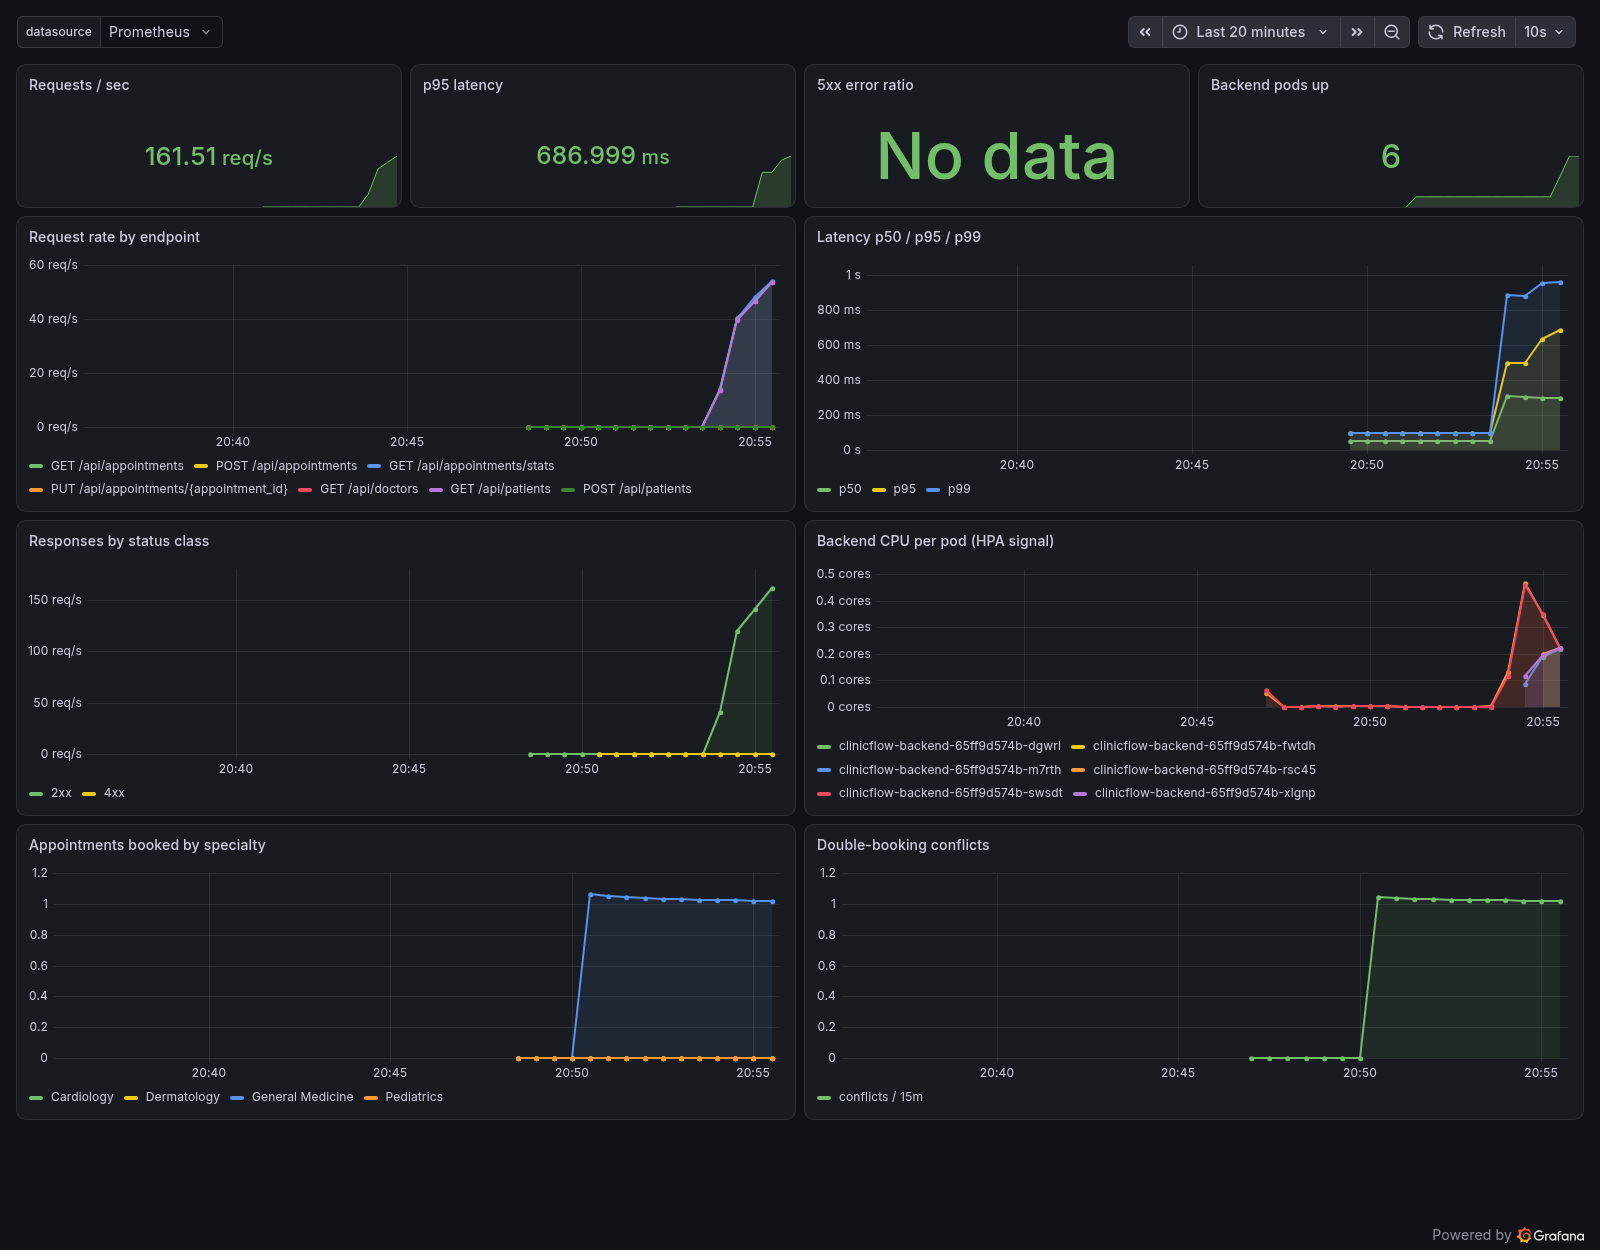
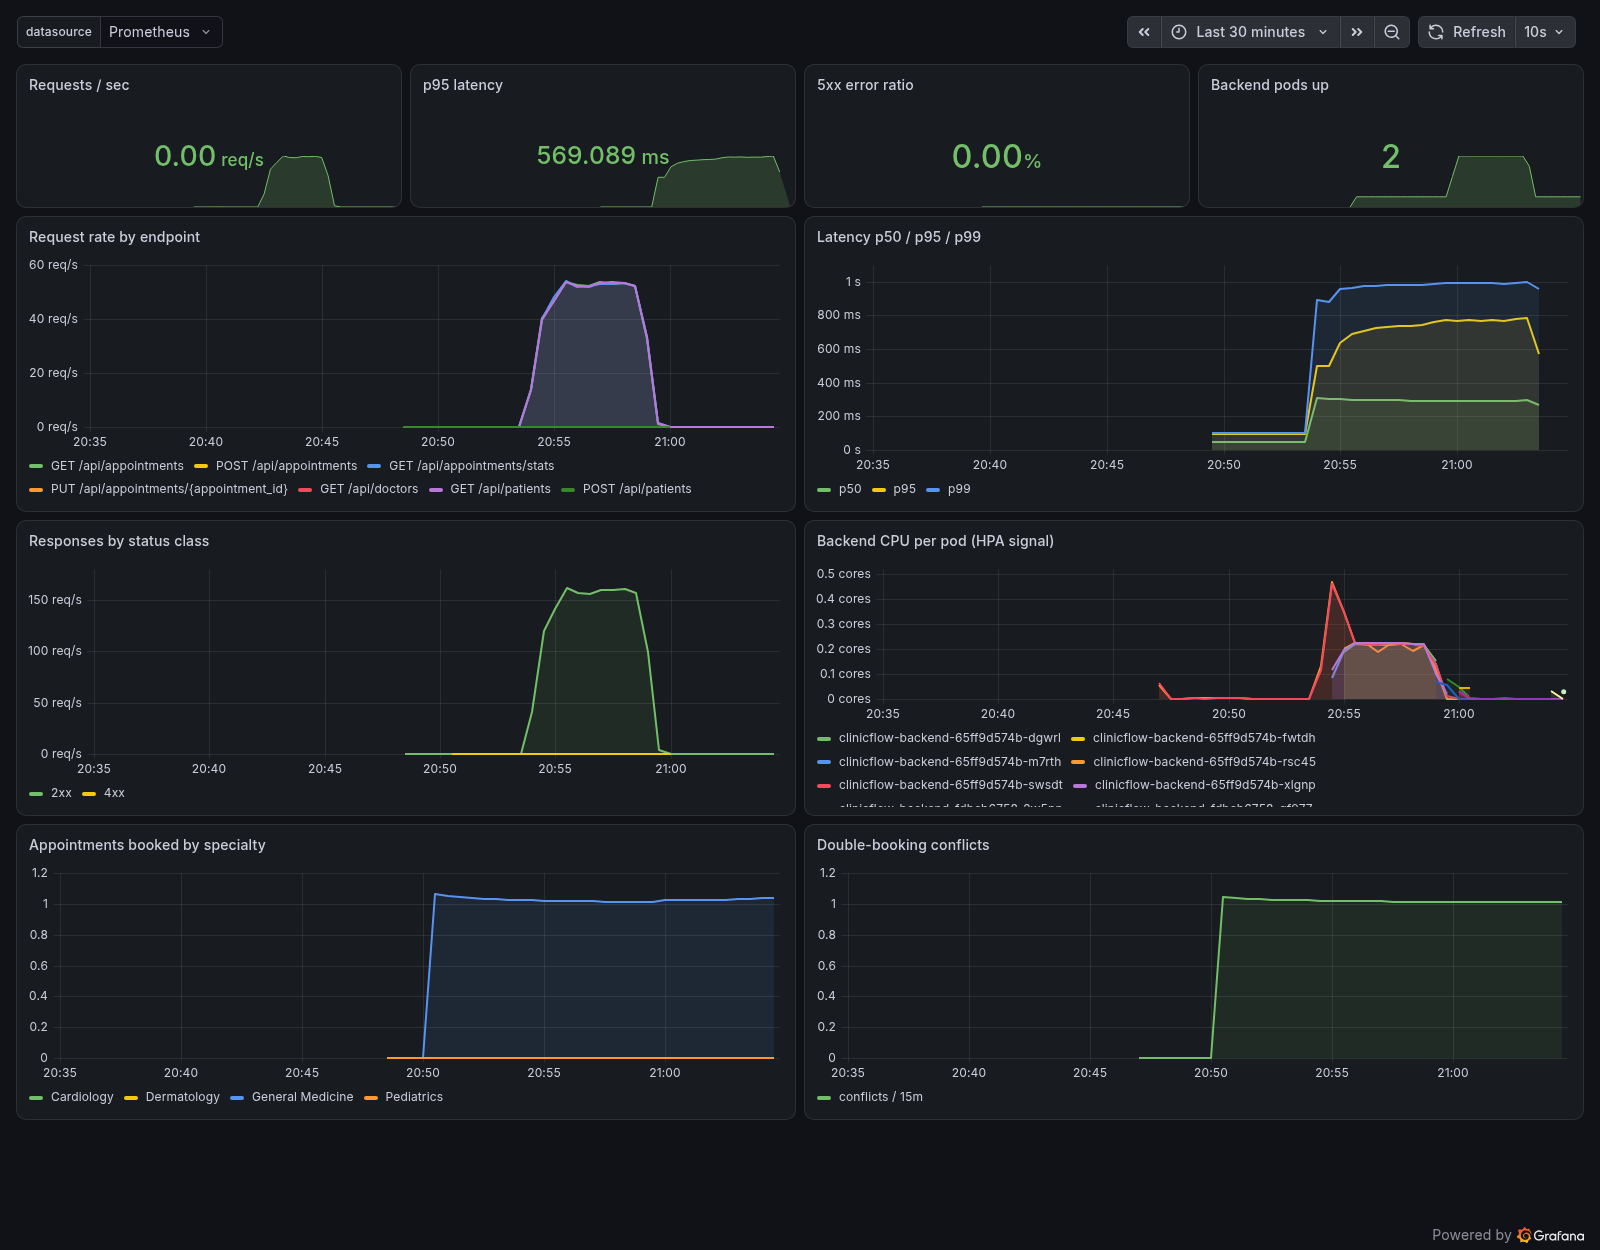
submission notes, screenshots, fix readiness lab image tag

diff --git a/docs/SUBMISSION.md b/docs/SUBMISSION.md
@@ -1,0 +1,106 @@
+# Capstone submission – ClinicFlow
+
+- **Repository:** https://github.com/SamarthPD-21/clinicflow
+- **Pipeline runs:** https://github.com/SamarthPD-21/clinicflow/actions
+- **Images:** `ghcr.io/samarthpd-21/clinicflow-backend`, `ghcr.io/samarthpd-21/clinicflow-frontend` (public, tagged with commit SHA)
+
+All screenshots are in [`docs/screenshots/`](screenshots/). File names start with the rubric module.
+
+## M1 – Application
+
+| Requirement | Evidence |
+|---|---|
+| FastAPI `/health` | `backend/app/main.py`, [m8-ingress-curl](screenshots/m8-ingress-curl.png), [m4-docker-images-nonroot](screenshots/m4-docker-images-nonroot.png) |
+| ≥ 4 REST endpoints (GET/POST/PUT/DELETE) | `backend/app/routers/` – 15 endpoints over doctors, patients, appointments. [m1-swagger-docs](screenshots/m1-swagger-docs.png), [m1-api-crud-curl](screenshots/m1-api-crud-curl.png) |
+| PostgreSQL + Alembic | `backend/alembic/versions/0001_initial_schema.py`, `0002_seed_demo_data.py`. [m1-database-tables](screenshots/m1-database-tables.png) |
+| Frontend calls the API | [m1-dashboard-ingress](screenshots/m1-dashboard-ingress.png), [m1-appointments-table](screenshots/m1-appointments-table.png), [m1-booking-success](screenshots/m1-booking-success.png), [m1-booking-conflict-409](screenshots/m1-booking-conflict-409.png), [m1-doctors](screenshots/m1-doctors.png), [m1-patients](screenshots/m1-patients.png) |
+| Responsive UI | [m1-mobile-responsive](screenshots/m1-mobile-responsive.png), [m10-demo-4-mobile-after-deploy](screenshots/m10-demo-4-mobile-after-deploy.png) |
+
+## M2 – Testing
+
+22 pytest tests across `/health`, `/ready`, `/metrics`, doctors, patients and appointments.
+`tests/conftest.py` overrides the DB dependency with in-memory SQLite, so the production database is never used.
+`backend/pytest.ini` configures the run.
+
+[m2-pytest-verbose](screenshots/m2-pytest-verbose.png) · [m2-ruff-lint](screenshots/m2-ruff-lint.png)
+
+## M3 – Git and GitHub
+
+Public repo, 20+ commits, `.gitignore` covers `.env`, `__pycache__`, `node_modules`, `.venv`, Terraform state and tfvars.
+
+[m3-git-log](screenshots/m3-git-log.png) · [m3-github-commit-history](screenshots/m3-github-commit-history.png) · [m3-gitignore](screenshots/m3-gitignore.png)
+
+## M4 – Docker
+
+- `backend/Dockerfile` – python:3.12-slim, runs as uid 10001, healthcheck, migrations then uvicorn.
+- `frontend/Dockerfile` – multi-stage: `node:22-alpine` build → `nginx-unprivileged` runtime (uid 101, port 8080).
+- `docker-compose.yml` – postgres + backend + frontend with health-gated startup.
+
+[m4-docker-compose-up](screenshots/m4-docker-compose-up.png) · [m4-compose-localhost-3000](screenshots/m4-compose-localhost-3000.png) · [m4-docker-images-nonroot](screenshots/m4-docker-images-nonroot.png)
+
+## M5 – CI/CD
+
+`.github/workflows/ci-cd.yml`: on push to `main` → ruff + pytest (build fails on test failure) → frontend build →
+build both images → Trivy → push to GHCR tagged `<commit-sha>` → write the SHA into `helm/clinicflow/values.yaml`.
+
+[m5-actions-run-green](screenshots/m5-actions-run-green.png) · [m5-actions-history](screenshots/m5-actions-history.png) ·
+[m5-ghcr-packages](screenshots/m5-ghcr-packages.png) · [m5-ghcr-backend-sha-tags](screenshots/m5-ghcr-backend-sha-tags.png) · [m5-ghcr-frontend-sha-tags](screenshots/m5-ghcr-frontend-sha-tags.png)
+
+## M6 – Trivy
+
+The scan step runs `aquasec/trivy:0.76.0 image --severity HIGH,CRITICAL --ignore-unfixed --exit-code 1` on both images
+before anything is pushed.
+
+[m6-trivy-pipeline-backend](screenshots/m6-trivy-pipeline-backend.png) · [m6-trivy-pipeline-frontend](screenshots/m6-trivy-pipeline-frontend.png) · [m6-trivy-gate-blocks-old-starlette](screenshots/m6-trivy-gate-blocks-old-starlette.png)
+
+**What it scanned and what the result means.** Trivy inspected every OS package in the image (Debian for the
+backend, Alpine for the frontend) and every Python package installed in site-packages, and compared versions against
+its vulnerability database. The current images report 0 HIGH/CRITICAL issues with a fix available, so the gate
+passes and the images are pushed. It did catch real problems while I was building this: FastAPI 0.115.6 pulled in
+Starlette 0.41.3, which has **CVE-2025-62727** – a denial of service where a crafted HTTP `Range` header makes
+Starlette spend excessive CPU merging byte ranges – so I upgraded to FastAPI 0.143 / Starlette 1.8. The nginx
+Alpine base also had 43 fixable HIGH CVEs (curl, OpenSSL, c-ares), fixed by running `apk upgrade` in the Dockerfile.
+The scan does not prove the app is secure; it only covers known CVEs in packaged software.
+
+## M7 – Terraform (AWS)
+
+`terraform/` – VPC (2 public + 2 private subnets across 2 AZs, NAT gateway) and EKS 1.34 with a managed node group
+(2 × t3.medium), EBS CSI add-on. `terraform.tfvars.example` is committed; no credentials are in the repo.
+
+[m7-terraform-init-validate](screenshots/m7-terraform-init-validate.png) · [m7-terraform-plan](screenshots/m7-terraform-plan.png) ·
+[m7-terraform-apply](screenshots/m7-terraform-apply.png) · [m7-aws-console-vpc](screenshots/m7-aws-console-vpc.png) ·
+[m7-aws-console-eks](screenshots/m7-aws-console-eks.png) · [m7-terraform-destroy](screenshots/m7-terraform-destroy.png)
+
+## M8 – Kubernetes + Helm
+
+| Requirement | Evidence |
+|---|---|
+| `k8s/namespace.yaml` | [m8-namespace-apply](screenshots/m8-namespace-apply.png) |
+| Helm chart (`helm/clinicflow`) | `Chart.yaml`, `values.yaml`, `templates/` |
+| `helm upgrade --install` / `helm list` | [m8-helm-list](screenshots/m8-helm-list.png), [m10-demo-3-deploy-new-sha](screenshots/m10-demo-3-deploy-new-sha.png) |
+| ≥ 2 replicas each, all Running | [m8-kubectl-get-pods](screenshots/m8-kubectl-get-pods.png), [m8-deployments-replicas](screenshots/m8-deployments-replicas.png) |
+| ClusterIP Services | [m8-kubectl-get-svc-ingress](screenshots/m8-kubectl-get-svc-ingress.png) |
+| Ingress `/` → frontend, `/api` → backend | [m8-deployments-replicas](screenshots/m8-deployments-replicas.png) (describe ingress), [m8-ingress-curl](screenshots/m8-ingress-curl.png), [m1-dashboard-ingress](screenshots/m1-dashboard-ingress.png) |
+| HPA | [m8-hpa-scaled-under-load](screenshots/m8-hpa-scaled-under-load.png) (2 → 6 pods under load), [m8-hpa-after-load](screenshots/m8-hpa-after-load.png) |
+
+## M9 – Observability
+
+[m9-metrics-endpoint](screenshots/m9-metrics-endpoint.png) · [m9-servicemonitor](screenshots/m9-servicemonitor.png) ·
+[m9-prometheus-targets-up](screenshots/m9-prometheus-targets-up.png) (6/6 backend pods UP) · [m9-prometheus-query-graph](screenshots/m9-prometheus-query-graph.png) ·
+[m9-grafana-dashboard](screenshots/m9-grafana-dashboard.png)
+
+## M10 – Demo: commit → pipeline → deployment
+
+1. Commit `c1b5ead` ("fix mobile nav overflow and 5xx panel showing no data") pushed to `main`.
+2. Pipeline runs: [m10-demo-1-pipeline-running](screenshots/m10-demo-1-pipeline-running.png) → [m5-actions-run-green](screenshots/m5-actions-run-green.png).
+3. Cluster before: [m10-demo-2-before-deploy](screenshots/m10-demo-2-before-deploy.png).
+4. `./scripts/deploy.sh` rolls both Deployments to `:c1b5ead…`: [m10-demo-3-deploy-new-sha](screenshots/m10-demo-3-deploy-new-sha.png).
+5. Fix visible in the app: [m10-demo-4-mobile-after-deploy](screenshots/m10-demo-4-mobile-after-deploy.png).
+
+## Troubleshooting
+
+| Scenario | Diagnose | Fix |
+|---|---|---|
+| Bad image tag → ImagePullBackOff | [t1-broken-image-diagnose](screenshots/t1-broken-image-diagnose.png) | [t1-broken-image-fixed](screenshots/t1-broken-image-fixed.png) |
+| Service selector mismatch → no endpoints | [t2-broken-service-diagnose](screenshots/t2-broken-service-diagnose.png) | [t2-broken-service-fixed](screenshots/t2-broken-service-fixed.png) |
+| Wrong DB password → Running but not Ready | [t3-broken-readiness-diagnose](screenshots/t3-broken-readiness-diagnose.png) | see `troubleshooting/README.md` |
